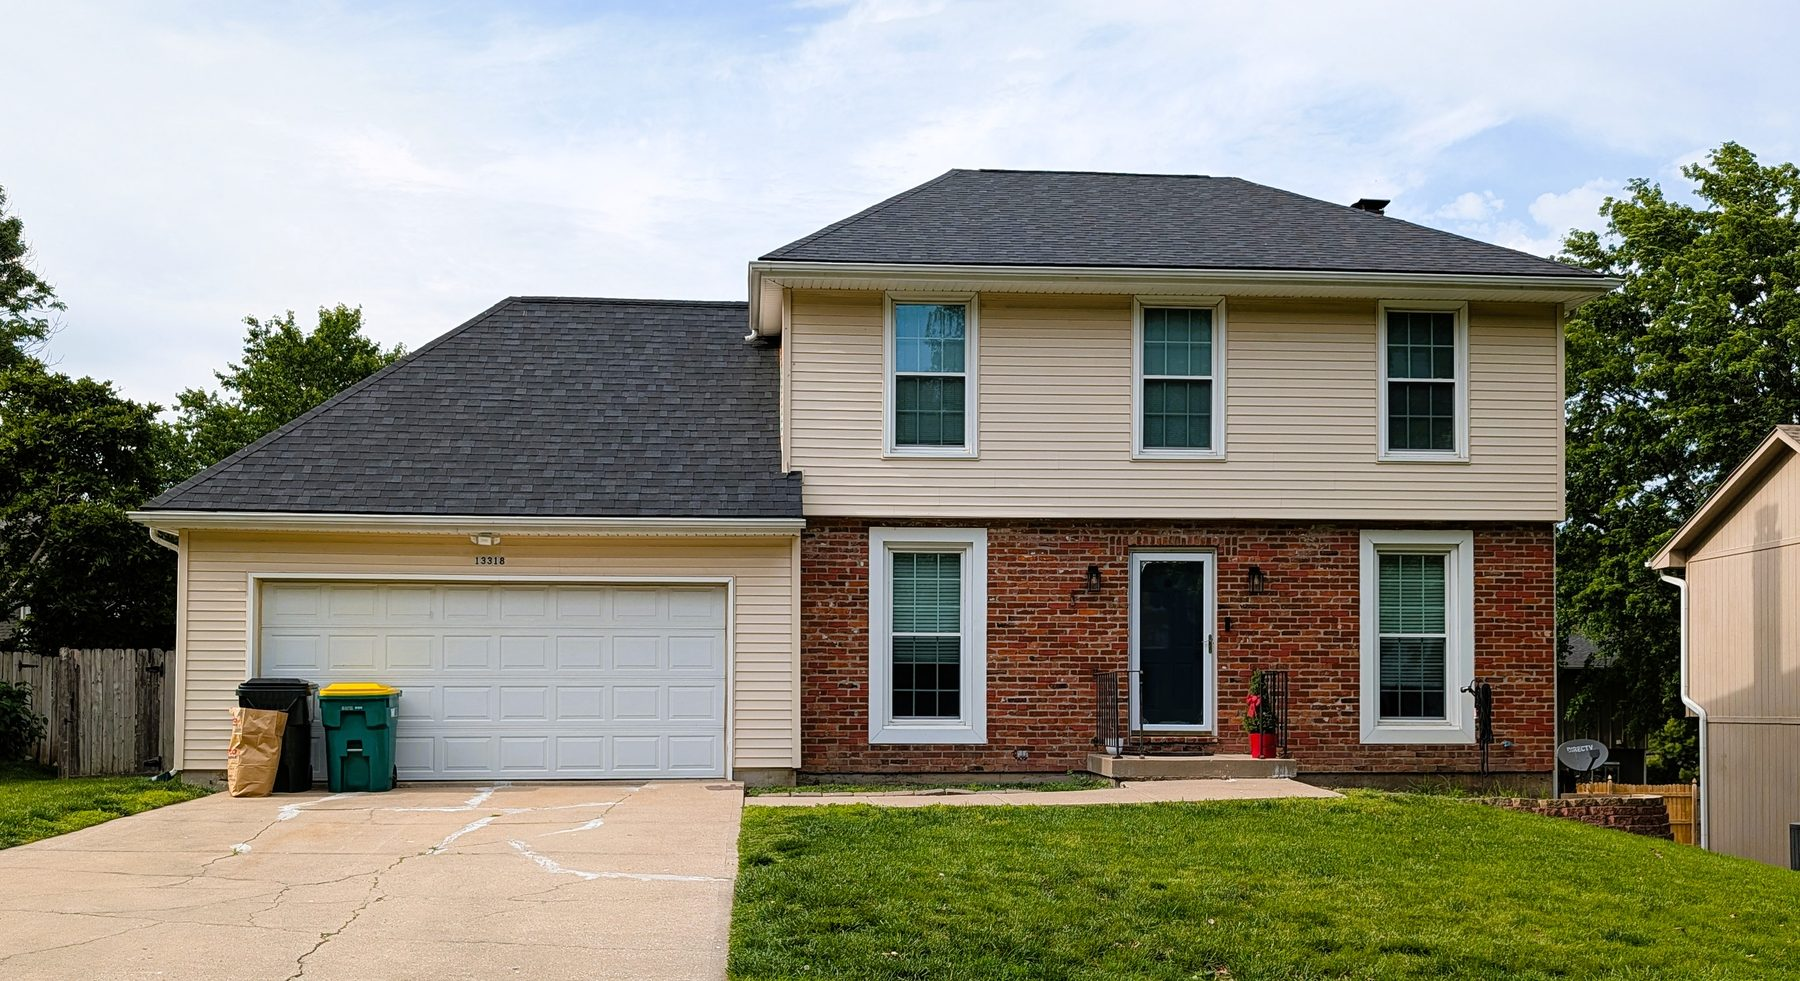
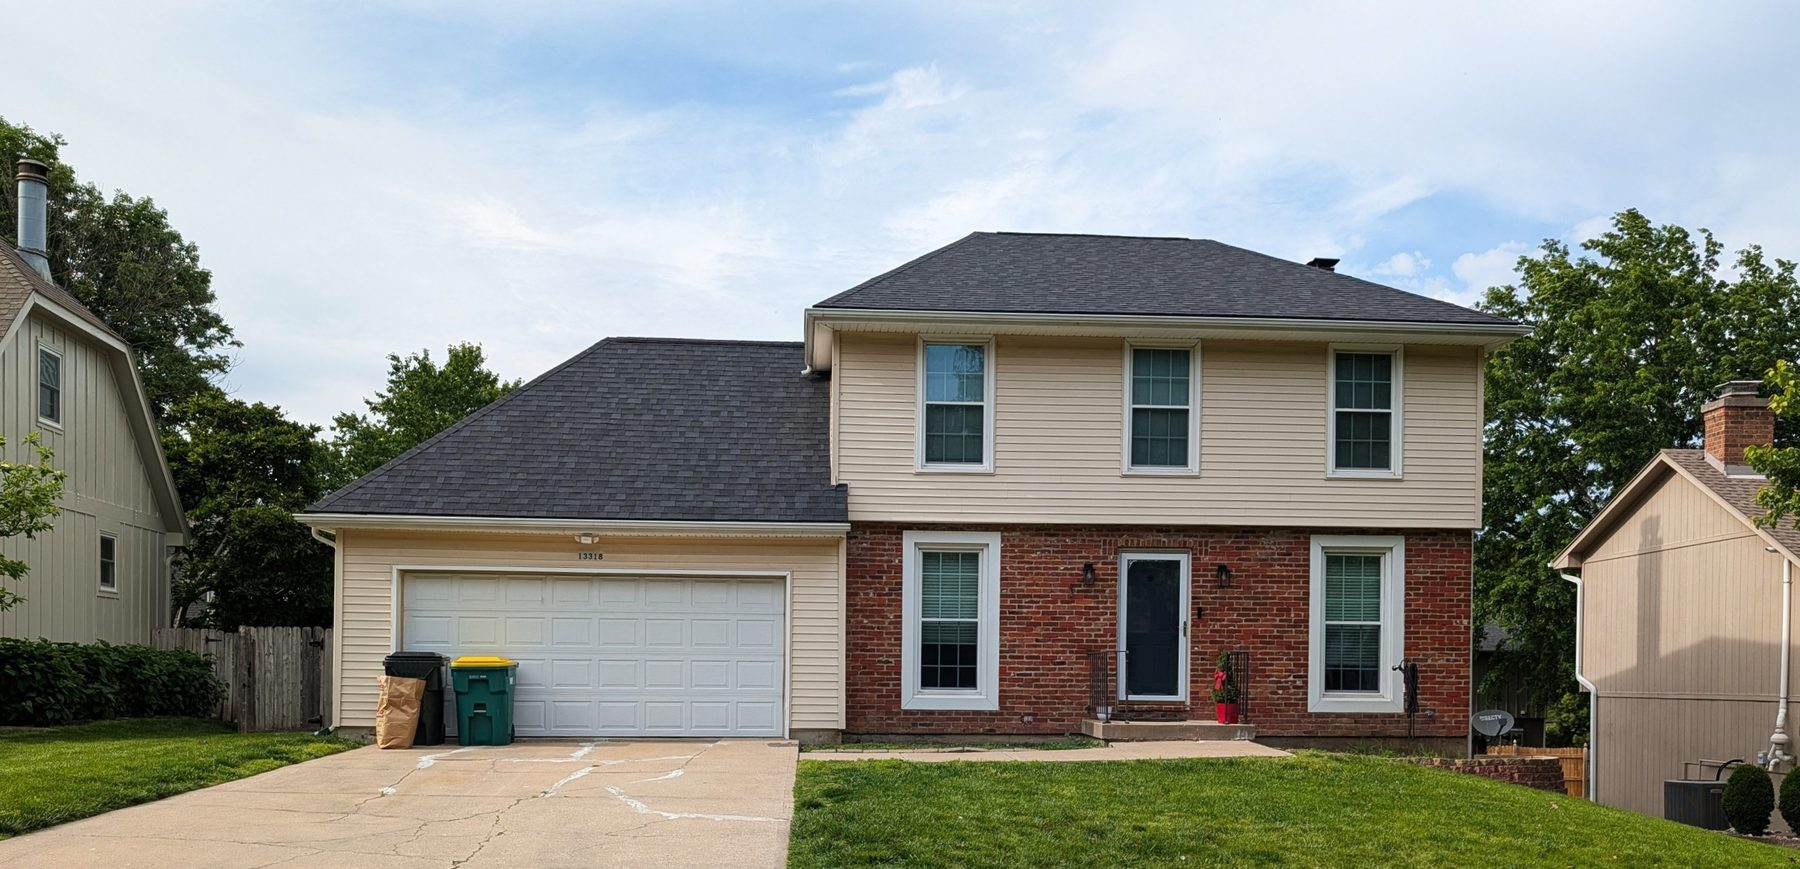
Update hero, before/after, About, Proyectos and Design Consulting
- Hero: replaced kitchen and one deck slide with full exterior house
  photo and the finished bar photo; hero-shot height bumped to 480px
- Hero: removed extra hero slide (kitchen), now 2 slides
- Before/after: restored deck slider (deck-before/deck-after), full color
- Exterior house photo: replaced with straightened full-house shot
- About "Our story": swapped stock kitchen render for real project photo
- Proyectos Recientes: added "Reference photo" tag to Bathroom and
  Master Suite cards (stock renders), removed the Panama kitchen card
- Design Consulting: new copy covering drafting services and 3D/Revit/
  SketchUp consulting for other companies
- Services tabs: Design Consulting tab enabled (3rd tab)
- Footer: "Construction & Architectural Consulting."

diff --git a/index.html b/index.html
@@ -52,11 +52,9 @@
       </div>
       <div class="hero-shot" id="heroShot">
         <div class="slide s1 on img-deck-wide"></div>
-        <div class="slide s2 img-kitchen3"></div>
-        <div class="slide s3 img-deck-stairs"></div>
-        <div class="slide s4 img-house-backyard"></div>
+        <div class="slide s3 img-bar-finished"></div>
         <div class="hero-dots" id="heroDots">
-          <button class="on" aria-label="Photo 1"></button><button aria-label="Photo 2"></button><button aria-label="Photo 3"></button><button aria-label="Photo 4"></button>
+          <button class="on" aria-label="Photo 1"></button><button aria-label="Photo 2"></button>
         </div>
       </div>
       <div class="hero-meta">
@@ -79,9 +77,7 @@
       <div class="tabs" id="tabs">
         <button class="on" data-tab="0">Exterior Remodeling</button>
         <button data-tab="1">Interior Remodeling</button>
-        <!-- pendiente de confirmar si ofrecen consultoría
-        <button data-tab="2">Consulting</button>
-        -->
+        <button data-tab="2">Design Consulting</button>
       </div>
 
       <div class="panel on" data-panel="0">
@@ -90,7 +86,7 @@
           <p>Siding, decks, outdoor living and everything that takes the weather. Work that has to look right and hold up through a Kansas winter.</p>
           <a href="#contact" class="btn-line">Talk about your build</a>
         </div>
-        <div class="photo img img-exterior1"></div>
+        <div class="photo img img-exterior1 photo-wide"></div>
       </div>
 
       <div class="panel" data-panel="1">
@@ -101,17 +97,16 @@
         </div>
         <div class="photo img img-interior-work"></div>
       </div>
-      <!-- pendiente de confirmar si ofrecen consultoría
+      <!-- DRAFT: pendiente confirmar copy final con Estefania -->
       <div class="panel" data-panel="2">
         <div>
-          <h3>Technical consulting</h3>
-          <p>Feasibility, inspections and technical reports from our in-house engineers and architects.</p>
-          <ul><li>Feasibility and cost studies</li><li>Structural and electrical review</li><li>Second opinion on an existing quote</li></ul>
-          <a href="#contact" class="btn-line">Request a review</a>
+          <h3>Design Consulting</h3>
+          <p>Two ways we help before construction starts: drafting and design services for your own project, and 3D consulting for other companies working in Revit and SketchUp.</p>
+          <ul><li>Construction drafting and technical plans</li><li>3D modeling and renderings</li><li>Revit / SketchUp consulting for design and engineering teams</li></ul>
+          <a href="#contact" class="btn-line">Talk about your project</a>
         </div>
         <div class="photo img img-bath tag"></div>
       </div>
-      -->
     </div>
   </section>
 
@@ -150,7 +145,7 @@
           <h3>Our story</h3>
           <p>For more than 30 years, we’ve built our story one project at a time, helping homeowners and businesses transform, repair, and improve their spaces. Based in Kansas, our company has grown through quality workmanship, attention to detail, and the trust of our clients. Today, we continue to bring that same experience and commitment to every construction and remodeling project we take on.</p>
         </div>
-        <div class="photo img img-kitchen tag"></div>
+        <div class="photo img img-kitchen-story"></div>
       </div>
       <div class="stats" id="stats">
         <div><b data-to="30" data-suffix="+">30+</b><span>years in business</span></div>
@@ -193,9 +188,8 @@
       </div>
       <div class="track" id="track">
         <div class="slide-card"><div class="photo img img-kitchen tag"></div><div class="cap"><b>Kitchen remodel</b><span>Kansas City</span></div></div>
-        <div class="slide-card"><div class="photo img img-kitchen2"></div><div class="cap"><b>Kitchen &amp; dining</b><span>Panamá</span></div></div>
-        <div class="slide-card"><div class="photo img img-bath"></div><div class="cap"><b>Bathroom remodel</b><span>Kansas City</span></div></div>
-        <div class="slide-card"><div class="photo img img-bed"></div><div class="cap"><b>Master suite</b><span>Miami</span></div></div>
+        <div class="slide-card"><div class="photo img img-bath tag"></div><div class="cap"><b>Bathroom remodel</b><span>Kansas City</span></div></div>
+        <div class="slide-card"><div class="photo img img-bed tag"></div><div class="cap"><b>Master suite</b><span>Miami</span></div></div>
       </div>
       <div class="dots" id="dots"></div>
     </div>
@@ -275,7 +269,7 @@
       <div class="foot">
         <div>
           <h4>TOPI Construction</h4>
-          <p>Construction &amp; technical consulting. </p>
+          <p>Construction &amp; Architectural Consulting.</p>
            <img src="img/topi-logo-transparente.png" alt="Topi Construction &amp; Remodeling" class="contact-logo">
         </div>
         <div>

diff --git a/css/style.css b/css/style.css
@@ -71,6 +71,7 @@
   /* reference photos (not actual TOPI job sites) */
   .photo.img::before{display:none;}
   .img-kitchen{background-image:url('../img/cocina-1.jpg'); background-size:cover; background-position:center;}
+  .img-kitchen-story{background-image:url('../img/kitchen-story.jpg'); background-size:cover; background-position:center;}
   .team .shot.img-team-ph1{background-image:url('../img/team-placeholder-1.jpg'); background-size:cover; background-position:center top;}
   .team .shot.img-team-ph2{background-image:url('../img/team-placeholder-2.jpg'); background-size:cover; background-position:center top;}
   .team .shot.img-team-ph3{background-image:url('../img/team-placeholder-3.jpg'); background-size:cover; background-position:center top;}
@@ -80,9 +81,9 @@
   .img-bath{background-image:url('../img/bano.jpg'); background-size:cover; background-position:center;}
   .img-exterior1{background-image:url('../img/exterior-house.jpg'); background-size:cover; background-position:center;}
   .img-deck-stairs{background-image:url('../img/deck-stairs.jpg'); background-size:cover; background-position:center;}
+  .img-bar-finished{background-image:url('../img/bar-finished.jpg'); background-size:cover; background-position:center;}
   .img-interior-work{background-image:url('../img/interior-work.jpg'); background-size:cover; background-position:center;}
   .img-deck-wide{background-image:url('../img/deck-wide.jpg'); background-size:cover; background-position:center;}
-  .img-house-backyard{background-image:url('../img/house-backyard.jpg'); background-size:cover; background-position:center;}
   .photo, .slide, .ba{border-radius:12px;}
   .photo.tag::after{content:"Reference photo"; background:rgba(255,255,255,.88); border-color:transparent; color:rgba(40,38,32,.62);}
   .shot-tag{background:rgba(255,255,255,.88); border-color:transparent; color:rgba(40,38,32,.62);}
@@ -121,7 +122,7 @@
   .hero h1{font-weight:800; font-size:clamp(34px,5.8vw,66px); line-height:1; letter-spacing:1.5px; max-width:13ch;}
   .hero .sub{font-size:16px; line-height:1.75; color:var(--ink-soft); max-width:40ch; margin-bottom:26px;}
   .hero .ctas{display:flex; gap:12px; flex-wrap:wrap;}
-  .hero-shot{position:relative; height:430px; overflow:hidden;}
+  .hero-shot{position:relative; height:480px; overflow:hidden;}
   .slide{position:absolute; inset:0; opacity:0; transition:opacity 1.1s ease;}
   .slide.on{opacity:1;}
   
@@ -179,6 +180,7 @@
   .panel li{font-size:14px; color:var(--ink-soft); padding-left:20px; position:relative;}
   .panel li::before{content:""; position:absolute; left:0; top:7px; width:8px; height:8px; background:var(--gold);}
   .panel .photo{height:400px;}
+  .panel .photo.photo-wide{height:260px;}
 
   /* ---- columnas hairline ---- */
   .cols{display:grid; grid-template-columns:repeat(2,1fr); border-top:1px solid var(--hair-2); row-gap:34px;}
@@ -206,7 +208,7 @@
   .ba{position:relative; height:480px; overflow:hidden; user-select:none; touch-action:none; cursor:ew-resize;}
   .ba .layer{position:absolute; inset:0;}
   .ba .after{background-image:url('../img/deck-after.jpg'); background-size:cover; background-position:center;}
-  .ba .before{background-image:url('../img/deck-before.jpg'); background-size:cover; background-position:center; width:50%; filter:grayscale(.85) brightness(.82) contrast(.92);}
+  .ba .before{background-image:url('../img/deck-before.jpg'); background-size:cover; background-position:center; width:50%;}
   
   .ba .tagl{
     position:absolute; top:18px; z-index:4;
@@ -321,6 +323,7 @@
     .hero{padding-top:56px;}
     .hero-shot{height:320px;}
     .panel .photo, .about .photo{height:320px;}
+    .panel .photo.photo-wide{height:210px;}
     .ba{height:360px;}
     .section{padding:76px 0;}
     /* las grillas de 3 se achican, no se parten: nunca queda un dato huérfano */
@@ -368,6 +371,7 @@
     .section{padding:56px 0;}
     .hero{padding-top:40px;}
     .hero-shot, .panel .photo, .about .photo{height:240px;}
+    .panel .photo.photo-wide{height:160px;}
     .ba{height:280px;}
     .team{grid-template-columns:1fr;}
     .track{grid-auto-columns:minmax(230px,1fr);}
